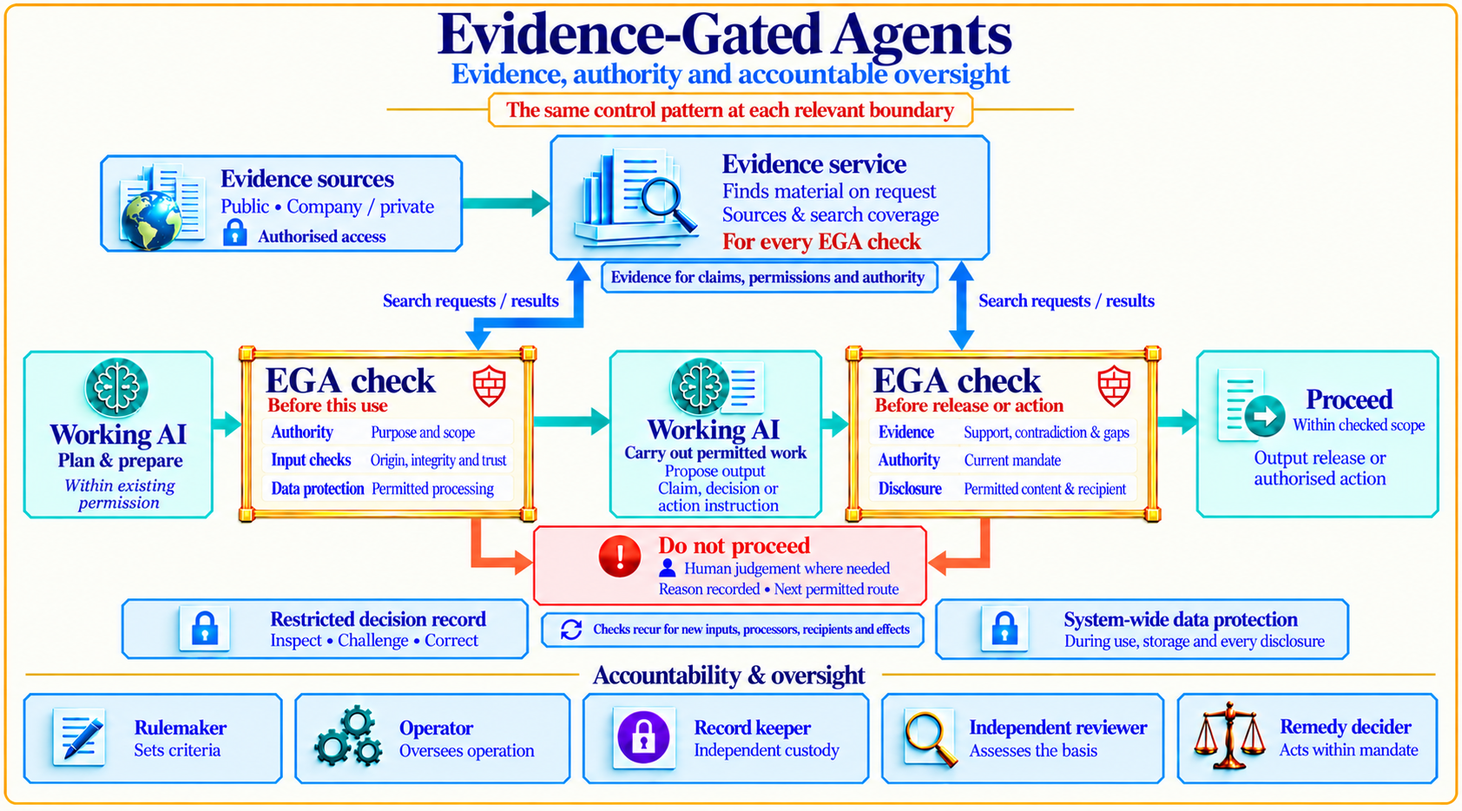
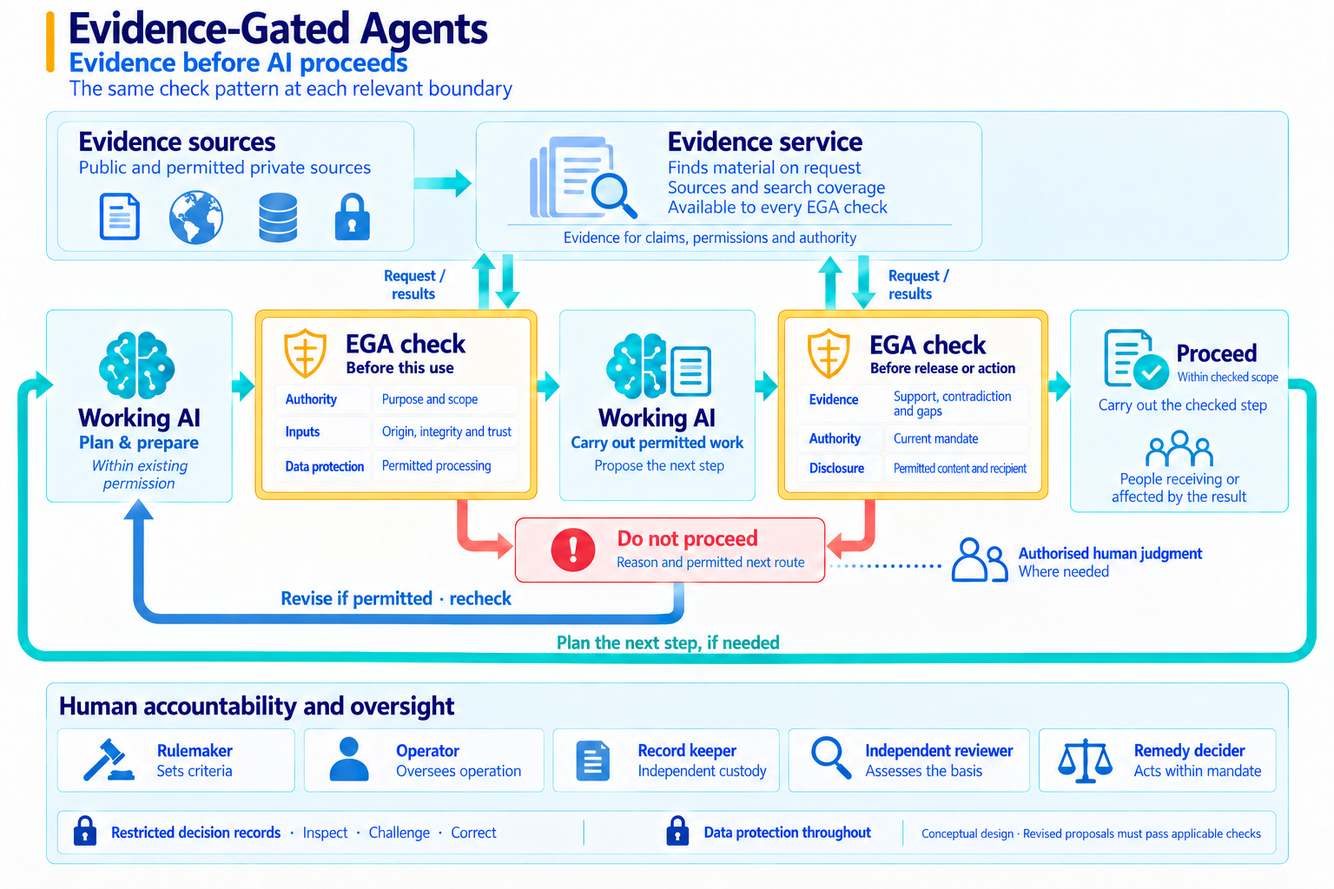
docs(ega): unify diagrams and clarify continuation and correction

diff --git a/docs/Assurance/Concepts/evidence-gated-agents.md b/docs/Assurance/Concepts/evidence-gated-agents.md
@@ -25,21 +25,21 @@ The selected prototype routes consequential decisions and instructions into evid
 
 **The cooperation opportunity:** bring a workflow, contribute engineering or evaluation expertise, or support the integration and its assessment. [See the milestone and how to contribute](#where-to-contribute).
 
-[![Wider EGA design: Working AI plans and prepares within existing permission. Repeated EGA checks govern each protected transition using its applicable requirements. Both illustrated checks can request evidence, including evidence of permission and authority. Proceed remains within checked scope; Do not proceed records the reason and next permitted route, with human judgement where needed. Records, data protection and five oversight roles support accountability.](evidence-gated-agents-release-workflow.png)](evidence-gated-agents-release-workflow.png)
+[![Full EGA design: Working AI prepares within existing permission, passes a before-use check, carries out permitted work and submits a step for a release or action check. Both checks can request evidence. After the checked step, a continuation loop returns to preparation for further work and applicable checks. Refusals lead to Do not proceed, conditional human judgment and permitted revision before renewed checks. People receiving or affected by results, five oversight roles, restricted records and system-wide data protection are shown.](evidence-gated-agents-release-workflow.png)](evidence-gated-agents-release-workflow.png)
 
-*Wider EGA design. The same EGA check pattern recurs for new inputs, processors, recipients and effects. Working AI plans and prepares within existing permission before the first illustrated check. Every check may request evidence, including evidence of permission and authority. Proceed and Do not proceed describe the gate decision; the reason determines the permitted next route, without automatically reopening a stopped attempt. Human judgement is requested where needed, within the person’s authority. [Lifecycle governance](../../Published/when-should-runtime-ai-governance-interrupt.md#the-when-has-two-clocks) surrounds this path. The first integration remains recommendation release only; integration, confidential-source handling and wider governance remain to be implemented and evaluated.*
+*Wider EGA design. The same EGA check pattern recurs for new inputs, processors, recipients and effects. Working AI plans and prepares within existing permission before the first illustrated check. Every check may request evidence, including evidence of permission and authority. Proceed and Do not proceed describe the gate decision. After the checked step, Working AI may plan further work within current permission; new protected transitions require their applicable checks. If permitted, Working AI revises and submits a new proposal for applicable checks; the rejected step stays withheld and closed attempts stay closed. Human judgement is requested where needed, within the person’s authority. [Lifecycle governance](../../Published/when-should-runtime-ai-governance-interrupt.md#the-when-has-two-clocks) surrounds this path. The first integration remains recommendation release only; integration, confidential-source handling and wider governance remain to be implemented and evaluated.*
 
 ## How the design works
 
-[![Output-release instance of the EGA check: a retrieval-only evidence service is available to every check, including authority and permission checks. EGA analyses the claim, decision or action instruction and applies evidence, authority and disclosure requirements. The decision branches are Proceed within checked scope or Do not proceed with a reason, next permitted route and human judgement where needed. Decision-record access is restricted and data protection applies throughout the system.](../../Published/evidence-gated-agents-before-we-rely.png)](../../Published/evidence-gated-agents-before-we-rely.png)
+[![Simplified EGA design: Working AI proposes a step within existing permission. An EGA check can request evidence and applies evidence, authority and permission requirements. Proceed stays within checked scope; Do not proceed gives a reason and permitted route. A continuation loop returns to Working AI after the checked step to plan further work; a separate revision loop permits correction and renewed checks. Human judgment, people receiving or affected by results, restricted records and oversight are visible.](../../Published/evidence-gated-agents-before-we-rely.png)](../../Published/evidence-gated-agents-before-we-rely.png)
 
-*The output-release design. The first integration targets consequential recommendations and instructions, without executing resulting actions. Integration and confidential-source handling remain to be built.*
+*Simplified view of the same recurring check. After the checked step, Working AI may plan the next step; the continuation loop does not authorise a retry when an outcome is uncertain. Requirements depend on the proposed step; permitted revision returns a changed proposal through applicable checks in a new attempt. The first integration targets consequential recommendation release, without executing resulting actions. Integration and confidential-source handling remain to be built.*
 
 The output being gated is a **claim, decision or action instruction**. Releasing an instruction makes it available to an authorised recipient; it does not authorise or execute the resulting action. The first prototype retains the consequential-decision/instruction trigger described above.
 
 The design repeats an **EGA check** outside the acting AI whenever a proposed step crosses a relevant boundary: **may this step proceed under its applicable requirements?** Trusted rules select the checks for that transition, such as authority, input integrity, evidence adequacy and data protection. Before-use and before-release/action checks are instances of this pattern, not the only two points at which it runs. This preserves the [operational gates](user-workflow-governance.md#five-steps) and their distinct responsibilities; the acting AI cannot select an easier check or authorise itself.
 
-Any EGA check may request evidence through the evidence service, including material establishing permission, authority or delegation. Retrieval itself requires an already-permitted access and processing route; it cannot retroactively authorise its own disclosure. The service returns found material with sources and search coverage; EGA assesses what it establishes, including validity, support, contradiction and gaps. Its analytical verdict and reasons inform the applicable gate controls. Evidence supporting a recommendation and evidence establishing authority answer different questions; neither substitutes for the other. If the supplier guarantee is unsupported, the recommendation does not proceed. A qualified alternative needs its own check.
+Any EGA check may request evidence through the evidence service, including material establishing permission, authority or delegation. Retrieval itself requires an already-permitted access and processing route; it cannot retroactively authorise its own disclosure. The service returns found material with sources and search coverage; EGA assesses what it establishes, including validity, support, contradiction and gaps. Its analytical verdict and reasons inform the applicable gate controls. Evidence supporting a recommendation and evidence establishing authority answer different questions; neither substitutes for the other. If the supplier guarantee is unsupported, the recommendation does not proceed. Where permitted, Working AI can prepare a qualified alternative; the changed proposal starts a new attempt through all applicable checks.
 
 The evidence-service interface can have a general public-source implementation and specialised implementations for company/private sources. Query-relevance ranking and faithful extraction are permitted, with traceable sources and visible selection limits; the service does not judge support or contradiction. Permission to retrieve remains distinct from permission to send material to a retrieval, extraction or analysis processor and to disclose it to a recipient.
 
@@ -129,6 +129,8 @@ flowchart TD
  A -->|Assessment / deadline| C(["A · Continue to release / action checks"]):::link
  A -->|Acceptance unknown| U["R1 · Withhold; reconcile examination"]:::uncertain
 
+ S -.->|If correction permitted| REV(["REV · Permitted correction"]):::link
+
 classDef work fill:#edf4fc,stroke:#6d8fb8,color:#17344c,stroke-width:1.4px
 classDef gate fill:#fff3d5,stroke:#b98528,color:#513707,stroke-width:1.5px
 classDef evidence fill:#e6f5f2,stroke:#39877e,color:#174c46,stroke-width:1.4px
@@ -160,6 +162,8 @@ flowchart TD
  E -->|Outcome unknown| V["R3 · Reconcile effect"]:::uncertain
  O --> R(["Inspect · Challenge · Correct<br/>Review ongoing reliance"]):::result
 
+ S -.->|If correction permitted| REV(["REV · Permitted correction"]):::link
+
 classDef work fill:#edf4fc,stroke:#6d8fb8,color:#17344c,stroke-width:1.4px
 classDef gate fill:#fff3d5,stroke:#b98528,color:#513707,stroke-width:1.5px
 classDef evidence fill:#e6f5f2,stroke:#39877e,color:#174c46,stroke-width:1.4px
@@ -172,7 +176,7 @@ classDef link fill:#fff,stroke:#54768e,color:#24465e,stroke-width:2px
 </div>
 
 
-**Do not proceed:** withhold the proposed step and record a scoped reason and permitted next route. An eligible held issue can receive authorised human judgment where useful, followed by fresh checks. A closed attempt stays closed; changed proposals require a new attempt. Neither human judgment nor an analytical verdict bypasses required evidence or authority.
+**Do not proceed:** withhold the proposed step and record a scoped reason and permitted next route. Where correction is permitted, Working AI may receive a permitted explanation and prepare a corrected or narrower proposal within its current permission. The [REV correction route](#permitted-correction) returns the changed proposal through all applicable checks as a new attempt. An eligible held issue can receive authorised human judgment where useful. A closed attempt stays closed; neither revision, human judgment nor an analytical verdict bypasses required evidence or authority.
 
 **Commitment and outcome are different.** Authority is freshly checked at the commitment boundary. The executor then validates the exact one-use binding; this is not a promise of another authority adjudication after commitment. Record confirmed no effect or known failure as such, preserving any commitment history. R1–R3 use the distinct recovery routes below.
 
@@ -213,6 +217,8 @@ flowchart TD
  D -->|Outcome unknown| R["R3 · Reconcile delivery"]:::uncertain
  D -->|Outcome known| K["Record outcome as appropriate<br/>No consequential receipt"]:::result
 
+ S -.->|If correction permitted| REV(["REV · Permitted correction"]):::link
+
 classDef work fill:#edf4fc,stroke:#6d8fb8,color:#17344c,stroke-width:1.4px
 classDef gate fill:#fff3d5,stroke:#b98528,color:#513707,stroke-width:1.5px
 classDef evidence fill:#e6f5f2,stroke:#39877e,color:#174c46,stroke-width:1.4px
@@ -244,6 +250,8 @@ flowchart TD
  A -->|Assessment / deadline| G{{"Complete, bound assessment<br/>Evidence rule satisfied?"}}:::gate
  G -->|No / error / incomplete at deadline| S
  G -->|Yes| C(["C · Continue to release control"]):::link
+
+ S -.->|If correction permitted| REV(["REV · Permitted correction"]):::link
 
 classDef work fill:#edf4fc,stroke:#6d8fb8,color:#17344c,stroke-width:1.4px
 classDef gate fill:#fff3d5,stroke:#b98528,color:#513707,stroke-width:1.5px
@@ -278,6 +286,8 @@ flowchart TD
  E -->|Outcome unknown| V["R3 · Reconcile delivery"]:::uncertain
  O --> R(["Restricted receipt<br/>Inspect · Challenge · Correct"]):::result
 
+ S -.->|If correction permitted| REV(["REV · Permitted correction"]):::link
+
 classDef work fill:#edf4fc,stroke:#6d8fb8,color:#17344c,stroke-width:1.4px
 classDef gate fill:#fff3d5,stroke:#b98528,color:#513707,stroke-width:1.5px
 classDef evidence fill:#e6f5f2,stroke:#39877e,color:#174c46,stroke-width:1.4px
@@ -294,9 +304,38 @@ The release control adjudicates current release authority and disclosure permiss
 
 Release means making the checked response available to the intended recipient. It does not mean that the recipient read it, and does not execute or authorise a resulting action. A later action needs its applicable checks; an existing mandate may cover it without another human approval.
 
-**Prototype stops close this attempt.** Keep stage-appropriate records and disclose only a permitted explanation. Authorised human judgment can resolve a specific issue where useful; a subsequent attempt still passes all applicable checks. R1–R3 remain separate recovery obligations, even after an attempt closes.
+**Prototype stops close this attempt.** Keep stage-appropriate records and disclose only a permitted explanation. Where correction is permitted, [REV](#permitted-correction) returns a revised request or response to model admission and trusted routing in a new attempt, not directly to examination or release. Authorised human judgment can resolve a specific issue where useful. R1–R3 remain separate recovery obligations, even after an attempt closes.
 
 **Preparation still open:** exact routing fixtures, schemas, criteria, timing and Runtime compatibility. FactHarbor's complete analytical API is not a retrieval-only service; component separation or a transitional adapter remains an implementation investigation. Controlled evaluation uses one clear decision, not several independent decision/effect paths. Component detection remains fallible; evaluation must measure omissions and variation.
+
+</details>
+
+<details markdown="1" class="ega-design" id="permitted-correction">
+<summary>Permitted correction — REV: revise and check a new proposal</summary>
+
+REV is an optional route from a refusal whose status is known. The rejected step remains withheld. It does not authorise the correction work or any additional access, processing or disclosure.
+
+<div class="ega-flow" role="region" aria-label="Permitted correction and a new checked attempt" tabindex="0" markdown="1">
+
+```mermaid
+%%{init: {"theme":"base","themeVariables":{"fontFamily":"Arial, sans-serif","fontSize":"16px","lineColor":"#52687b"},"flowchart":{"curve":"linear","nodeSpacing":28,"rankSpacing":38,"padding":14,"wrappingWidth":190},"htmlLabels":false}}%%
+flowchart TD
+ F(["REV · Known refusal"]):::link --> P{{"Feedback and correction work<br/>permitted?"}}:::gate
+ P -->|No / unresolved| S["Remain stopped<br/>Record permitted next route"]:::stop
+ P -->|Yes| W["Working AI receives permitted feedback<br/>Revises within current permission"]:::work
+ W --> N["Changed proposal · new attempt<br/>Applicable admission and routing<br/>Evidence and release / action checks"]:::work
+
+classDef work fill:#edf4fc,stroke:#6d8fb8,color:#17344c,stroke-width:1.4px
+classDef gate fill:#fff3d5,stroke:#b98528,color:#513707,stroke-width:1.5px
+classDef stop fill:#fff0e9,stroke:#c07155,color:#803721,stroke-width:1.4px
+classDef link fill:#fff,stroke:#54768e,color:#24465e,stroke-width:2px
+```
+
+</div>
+
+In View 1, revision returns to permitted preparation and the applicable boundary checks. In View 2, a revised request or response starts at model admission and trusted routing; it cannot inherit the old response's routing or bound assessment. If the original model or provider is not permitted, it cannot receive the feedback or perform the revision. In View 2, refreshing a temporary ruling within an unchanged, still-open attempt remains subject to the existing deadline, authority and binding limits.
+
+Unknown examination, commitment or delivery status follows **R1–R3**, not REV. Establish the relevant status before a next step that could duplicate work or effects; a new attempt ID does not remove that risk. This correction route specifies no automatic retry policy or expanded authority.
 
 </details>
 

diff --git a/docs/Published/evidence-gated-agents-before-we-rely.md b/docs/Published/evidence-gated-agents-before-we-rely.md
@@ -6,7 +6,7 @@ An AI recommendation can sound convincing—but is there enough evidence to just
 
 Evidence-Gated Agents (EGA) connects evidence examination with controls outside the acting AI. Its design repeats the same check at relevant boundaries: before using information, releasing output or taking action.
 
-Any check can seek evidence, including evidence of permission and authority. EGA analyses supporting and contradicting evidence, checks the applicable requirements and records the basis for Proceed or Do not proceed—with human judgement where needed.
+Any check can seek evidence, including evidence of permission and authority. EGA analyses supporting and contradicting evidence, checks the applicable requirements and records the basis for Proceed or Do not proceed—with human judgement where needed. Where permitted, Working AI can revise and submit a new proposal for checking; the rejected step stays blocked.
 
 Two foundations already exist: FactHarbor Alpha and the Our AI Charter Runtime proof of concept. The next milestone connects them in one bounded recommendation workflow and tests whether it reduces unsupported recommendations while retaining useful answers.
 
@@ -17,7 +17,7 @@ https://robertschaub.github.io/our-ai-charter/Assurance/Concepts/evidence-gated-
 
 𝘍𝘶𝘭𝘭 𝘢𝘳𝘵𝘪𝘤𝘭𝘦 𝘣𝘦𝘭𝘰𝘸 ↓
 ***
-[![Architectural view of Evidence-Gated Agents: Working AI plans and prepares within existing permission and proposes a next step. EGA checks before use, release or action, requesting evidence as needed and applying the requirements for that step. Outcomes are Proceed within checked scope or Do not proceed, with human judgement where needed. Restricted decision records, data protection and five oversight roles support accountability. Conceptual design.](evidence-gated-agents-before-we-rely-architectural.png)](evidence-gated-agents-before-we-rely-architectural.png)
+[![Simplified EGA design: Working AI proposes a step within existing permission. An EGA check can request evidence and applies evidence, authority and permission requirements. Proceed stays within checked scope; Do not proceed gives a reason and permitted route. A continuation loop returns to Working AI after the checked step to plan further work; a separate revision loop permits correction and renewed checks. Human judgment, people receiving or affected by results, restricted records and oversight are visible.](evidence-gated-agents-before-we-rely.png)](evidence-gated-agents-before-we-rely.png)
 ***
 
 # Evidence-Gated Agents: Before We Rely on an AI Recommendation
@@ -36,13 +36,13 @@ Any EGA check can request evidence, including evidence of permission, authority 
 
 For the supplier example, missing evidence of the required guarantee means the recommendation does not proceed. A narrower recommendation needs a new check. A favourable analytical verdict alone cannot replace authority or permission to disclose the content.
 
-**Proceed** means within the checked scope. **Do not proceed** records the reason and next permitted route. Human judgement is sought where an authorised person can resolve a specific issue and the stakes justify interruption. It cannot supply missing evidence or reopen a stopped attempt.
+**Proceed** permits the checked step within its scope. After that step, Working AI may plan further work within current permission; each new protected transition faces its applicable checks. **Do not proceed** records the reason and next permitted route. Where permitted, Working AI receives feedback and prepares a corrected or narrower proposal within its current permission. The revised proposal must pass all applicable checks in a new attempt; the rejected step stays blocked and closed attempts stay closed. Uncertain work or delivery must be reconciled before any next step that could duplicate it. Human judgement is sought where an authorised person can resolve a specific issue and the stakes justify interruption. It cannot supply missing evidence or reopen a stopped attempt.
 
 The evidence-service interface can support public sources and specialised company/private sources. Access, processing and disclosure are separate permissions. Data protection applies throughout the system, including outgoing requests, released content and records. Decision-record access is restricted; separate oversight responsibilities support inspection, challenge and correction.
 
-[![Output-release instance of the EGA check: a retrieval-only evidence service is available to every check, including authority and permission checks. EGA analyses the claim, decision or action instruction and applies evidence, authority and disclosure requirements. The decision branches are Proceed within checked scope or Do not proceed with a reason, next permitted route and human judgement where needed. Decision-record access is restricted and data protection applies throughout the system.](evidence-gated-agents-before-we-rely.png)](evidence-gated-agents-before-we-rely.png)
+[![Full EGA design: Working AI prepares within existing permission, passes a before-use check, carries out permitted work and submits a step for a release or action check. Both checks can request evidence. After the checked step, a continuation loop returns to preparation for further work and applicable checks. Refusals lead to Do not proceed, conditional human judgment and permitted revision before renewed checks. People receiving or affected by results, five oversight roles, restricted records and system-wide data protection are shown.](../Assurance/Concepts/evidence-gated-agents-release-workflow.png)](../Assurance/Concepts/evidence-gated-agents-release-workflow.png)
 
-*Output release is one instance of the recurring EGA check. The wider design also covers before-use and action boundaries. Integration and confidential-source handling remain to be built.*
+*The full design shows the same EGA check at two example boundaries. After the checked step, Working AI may plan the next step within current permission; new protected transitions require their applicable checks. If revision is permitted, Working AI prepares a changed proposal that must undergo the applicable checks in a new attempt. People receiving or affected by the result remain visible alongside human judgment and oversight. The first integration remains recommendation release only; integration and confidential-source handling remain to be built.*
 
 ## Two foundations, one concrete milestone
 

diff --git a/README.md b/README.md
@@ -65,7 +65,7 @@ Start with the [Trust & Accountability overview](docs/Assurance/index.md): draft
 - **[Grounding-Faithfulness & Contestability](docs/Assurance/Protocol/grounding-faithfulness-and-contestability.md)** — *DRAFT v0.3*. First evaluation module; start with the [method summary](docs/Assurance/Protocol/one-pager.md).
 - **[Future certification: independence and oversight](docs/Assurance/Framework/certification-model.md)** — *DRAFT*. Future separation-of-powers assurance model, including the boundary between system/release assurance and human competence; not an existing scheme or personnel credential.
 - **[From evaluation methods to institutional requirements](docs/Assurance/Concepts/evaluation-to-institutional-requirements.md)** — *DRAFT*. One-page crosswalk from scoped evaluation methods to institutional duties, evidence, remediation, and claim limits.
-- **[Evidence-Gated Agents — project overview](docs/Assurance/Concepts/evidence-gated-agents.md)** — *Design and development direction*. Current foundations, the next integration and evaluation milestone, and cooperation opportunities, with recurring EGA checks, evidence for authority and output support, privacy and oversight boundaries, and expandable target/prototype flows with distinct recovery routes and fictional receipt examples.
+- **[Evidence-Gated Agents — project overview](docs/Assurance/Concepts/evidence-gated-agents.md)** — *Design and development direction*. Current foundations, the next integration and evaluation milestone, and cooperation opportunities, with recurring EGA checks, evidence for authority and output support, privacy and oversight boundaries, and expandable target/prototype flows with permitted correction, distinct recovery routes and fictional receipt examples.
 - **[Evidence requirements: what EGA needs to demonstrate](docs/Assurance/Concepts/evidence-requirements-research.md)** — *DRAFT, non-normative*. Research question, prototype boundaries, comparison success rules and public evaluation commitments.
 - **[Charter structure and views](docs/Assurance/Concepts/charter-structure-and-views.md)** · **[User-workflow governance](docs/Assurance/Concepts/user-workflow-governance.md)** · **[Assurance cases](docs/Assurance/Concepts/assurance-cases.md)** · **[Capabilities & Assurance Interface](docs/Assurance/Concepts/charter-structure-and-views.md#capabilities-and-assurance-interface)** — *DRAFT*. Concept notes that map obligations, duties, runtime, reader-facing lenses, the obligation→duty assurance-case prototypes, and the demand-side "check" surface (now part of Charter structure and views).
 - **[Ambient and agentic AI controls](docs/Assurance/Concepts/ambient-agentic-ai-control.md)** · **[Split custody for action records](docs/Assurance/Concepts/split-custody-per-action-records.md)** · **[Representation error and correction](docs/Assurance/Concepts/representation-error-and-correction-routes.md)** — *DRAFT / CONCEPT NOTES*. Proposed control, record-custody, and correction-route designs; none is an operating scheme.

diff --git a/docs/Assurance/Concepts/user-workflow-governance.md b/docs/Assurance/Concepts/user-workflow-governance.md
@@ -45,7 +45,7 @@ Loops and chains re-enter **Submit** and **Verify**: each model/tool hop can add
 
 **Authority needs the same treatment as evidence.** *Authorize* establishes what the user and system may do, but the authority at the root of that grant has a basis too — a role, an instrument, a decision — and it should be recorded and reviewable rather than assumed from the fact that a grant exists. A signed permission proves someone granted it, never that they held what they granted.
 
-EGA presents these as instances of one repeated check: may this proposed transition proceed under its applicable requirements? Any check may obtain permitted evidence, including evidence establishing authority or permission. Trusted rules select the requirements; the acting AI cannot select a bypass. The overview branches **Proceed / Do not proceed** express the decision for that step, without replacing the operational gates, technical verdicts, attempt states or recovery obligations below. “Human judgement where needed” is a conditional route for a specific unresolved issue, within the person's authority; it is not required for every refusal and cannot substitute for missing evidence or authority, or reopen a terminally closed attempt.
+EGA presents these as instances of one repeated check: may this proposed transition proceed under its applicable requirements? Any check may obtain permitted evidence, including evidence establishing authority or permission. Trusted rules select the requirements; the acting AI cannot select a bypass. The overview branches **Proceed / Do not proceed** express the decision for that step, without replacing the operational gates, technical verdicts, attempt states or recovery obligations below. Where permitted, Working AI receives permitted feedback and revises within its current permission; the changed proposal follows the [correction route](evidence-gated-agents.md#permitted-correction) through applicable checks in a new attempt. The rejected step remains blocked; uncertainty still requires reconciliation. “Human judgement where needed” is a conditional route for a specific unresolved issue, within the person's authority; it is not required for every refusal and cannot substitute for missing evidence or authority, or reopen a terminally closed attempt.
 
 ## Escalation triggers
 

diff --git a/docs/Assurance/Concepts/evidence-requirements-research.md b/docs/Assurance/Concepts/evidence-requirements-research.md
@@ -15,7 +15,7 @@ The proposed workflow identifies material claims, assumptions and dependencies; 
 
 Search may reveal a missing premise or show that a requirement is ill-posed. That discovery returns to requirement proposal and review before further evidence assessment or release. It cannot lower the evidence standard to fit what was found: any relaxed or removed requirement must be justified against the frozen policy, reviewed and recorded.
 
-A separate deterministic gate then applies the recorded rule to the requirements, review outcomes and evidence assessment: permit release, require revision or hold the proposal. It makes no semantic judgment of its own, and a model verdict alone cannot authorize release. Material changes require renewed checks. Agreement between reviewers is not proof that their requirements or conclusions are adequate.
+A separate deterministic gate then applies the recorded rule to the requirements, review outcomes and evidence assessment: permit or withhold release. Withholding records the reason and permitted next route, which may include Working AI revising the proposal within its existing permission. A revised proposal starts a new attempt through all applicable checks. The gate makes no semantic judgment of its own, and a model verdict alone cannot authorize release. Agreement between reviewers is not proof that their requirements or conclusions are adequate.
 
 ## What goes into a check—and what comes out?
 

diff --git a/CHANGELOG.md b/CHANGELOG.md
@@ -4,6 +4,10 @@ Notable changes to the charter and its drafts. Dates are ISO (YYYY-MM-DD).
 
 ## 2026-10-08
 
+- Unified the EGA illustrations into full and simplified views with matching gold frames, separate next-step and permitted-revision loops and visible human involvement and affected people. Updated page captions and image descriptions; retained earlier image URLs for compatibility.
+
+- Clarified permitted Working AI revision after an EGA refusal across illustrations, phased flows and explanatory text. Changed proposals return through applicable checks in a new attempt; closed attempts and uncertain-outcome reconciliation retain their existing rules.
+
 - Reorganised the two detailed EGA design flows into connected phases with distinct recovery routes. Clarified ordinary delivery, release authorisation, exact-response binding and the retained prototype trigger limitation; improved diagram readability in the page and on narrow screens.
 
 - Replaced the EGA concept-page workflow illustration with the version using continuous, clearer box borders.
